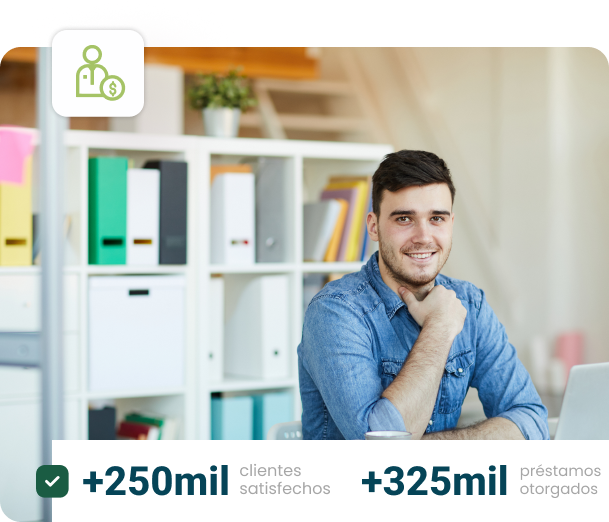
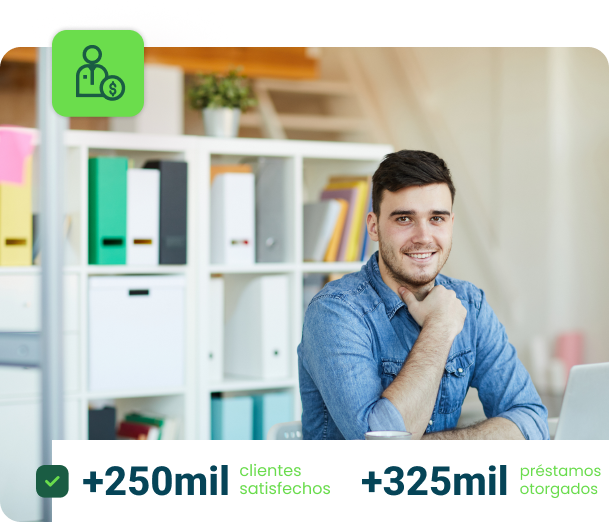
Seccion ayuda

diff --git a/src/app/client/shared/navbar/navbar.component.html b/src/app/client/shared/navbar/navbar.component.html
@@ -8,7 +8,7 @@
         <ul>
             <li *ngFor="let item of items" class="link-route">
                 <ng-container *ngIf="item.path !== 'servicios'; else serviciosLink">
-                    <a [routerLink]="[item.path]" routerLinkActive="selected" class="link-route__href">
+                    <a [routerLink]="[item.path]" (click)="toggleClass(item.path)" routerLinkActive="selected" class="link-route__href">
                         {{ item.text }}
                     </a>
                 </ng-container>
@@ -20,8 +20,8 @@
                         <div class="arrow-down"><mat-icon>expand_more</mat-icon></div>
                         <div class="submenu animate__animated animate__fadeIn animate__faster">
                             <ul>
-                                <li *ngFor="let servicio of servicios">
-                                    <a [routerLink]="'servicios/' + servicio.path" routerLinkActive="selected"
+                                <li *ngFor="let servicio of servicios" [routerLink]="'servicios/' + servicio.path">
+                                    <a  routerLinkActive="selected"
                                         class="link-route__href">
                                         {{ servicio.titulo }}
                                     </a>

diff --git a/src/app/client/pages/ayuda/ayuda.component.scss b/src/app/client/pages/ayuda/ayuda.component.scss
@@ -1,0 +1,45 @@
+.ayuda {
+    padding-top: 5.375rem;
+    padding-bottom: 5.375rem;
+
+    &__box {
+        margin-top: 3.75rem;
+        display: flex;
+        justify-content: center;
+        position: relative;
+
+        &__title {
+            margin-right: 4rem;
+        }
+
+        &__tab {
+            display: flex;
+            align-items: center;
+
+            ul {
+                display: flex;
+
+                .active {
+                    color: var(--verde-claro) !important;
+                    font-family: Roboto-Medium !important;
+
+                }
+
+                li {
+                    list-style: none;
+                    color: #636D79;
+                    font-family: Roboto-Regular !important;
+                    font-size: 1rem !important;
+                    line-height: 150% !important;
+                    letter-spacing: normal;
+                    cursor: pointer;
+                    transition: all .2s;
+
+                    &:not(:last-child) {
+                        margin-right: 2.5rem;
+                    }
+                }
+            }
+        }
+    }
+}

diff --git a/src/app/client/pages/ayuda/ayuda.component.html b/src/app/client/pages/ayuda/ayuda.component.html
@@ -1,1 +1,21 @@
-<p>ayuda works!</p>
+<div class="ayuda">
+    <div class="ayuda__tittle-little">
+        <p class="text-small-section">Ayuda y seguridad</p>
+    </div>
+    <div class="ayuda__box">
+        <div class="ayuda__box__title title-section">Preguntas Frecuentes</div>
+        <div class="ayuda__box__tab">
+            <ul>
+                <li [ngClass]="{'active': isSelected === 'generales'}" (click)="toggleClass('generales')">General</li>
+                <li [ngClass]="{'active': isSelected === 'payments'}" (click)="toggleClass('payments')">Payments</li>
+                <li [ngClass]="{'active': isSelected === 'services'}" (click)="toggleClass('services')">Services</li>
+                <li [ngClass]="{'active': isSelected === 'refund'}" (click)="toggleClass('refund')">Refund</li>
+                <li [ngClass]="{'active': isSelected === 'contact'}" (click)="toggleClass('contact')">Contact</li>
+            </ul>
+        </div>
+    </div>
+
+    <div class="ayuda__box__answers">
+        <question-section [questions]="questionsSelected"></question-section>
+    </div>
+</div>

diff --git a/src/app/client/components/components.module.ts b/src/app/client/components/components.module.ts
@@ -5,6 +5,8 @@ import { PrestamoBoxComponent } from './prestamo-box/prestamo-box.component';
 import { SharedGlobalModule } from 'src/app/shared/shared.module';
 import { TestimonioComponent } from './testimonio/testimonio.component';
 import { SlickCarouselModule } from 'ngx-slick-carousel';
+import { QuestionComponent } from './question/question.component';
+import { QuestionSectionComponent } from './question-section/question-section.component';
 
 
 
@@ -12,7 +14,9 @@ import { SlickCarouselModule } from 'ngx-slick-carousel';
   declarations: [
     NuestrosServiciosComponent,
     PrestamoBoxComponent,
-    TestimonioComponent
+    TestimonioComponent,
+    QuestionComponent,
+    QuestionSectionComponent
   ],
   imports: [
     CommonModule,
@@ -22,7 +26,9 @@ import { SlickCarouselModule } from 'ngx-slick-carousel';
   exports: [
     NuestrosServiciosComponent,
     PrestamoBoxComponent,
-    TestimonioComponent
+    TestimonioComponent,
+    QuestionComponent,
+    QuestionSectionComponent
   ]
 })
 export class ComponentsModule { }

diff --git a/src/app/client/pages/ayuda/ayuda.component.ts b/src/app/client/pages/ayuda/ayuda.component.ts
@@ -1,9 +1,34 @@
-import { Component } from '@angular/core';
+import { Component, OnInit } from '@angular/core';
+import { QuestionsService } from '../../services/questions.service';
+
 
 @Component({
   templateUrl: './ayuda.component.html',
   styleUrls: ['./ayuda.component.scss']
 })
-export class AyudaComponent {
+
+
+export class AyudaComponent implements OnInit {
+  questions!: any[];
+  isSelected: string = 'generales';
+  questionsSelected: any = [];
+
+  constructor(private questionService: QuestionsService) { }
+
+  ngOnInit(): void {
+    this.questionService.getQuestions()
+      .subscribe(questions => {
+        this.questions = questions
+      })
+  }
+
+  toggleClass(tipo: string): void {
+    if (this.isSelected !== tipo) {
+      this.isSelected = tipo;
+      console.log(this.questions)
+      const questions = this.questions.find(question => question.tipo === tipo)
+      this.questionsSelected = questions.data
+    }
+  }
 
 }

diff --git a/src/app/client/pages/nosotros/nosotros.component.scss b/src/app/client/pages/nosotros/nosotros.component.scss
@@ -43,17 +43,18 @@ p {
                 margin-top: 2.5rem;
                 cursor: pointer;
                 border-radius: .5rem;
-                border: 1px solid  rgba(145, 158, 171, 0.32);
+                border: 1px solid  var(--verde-claro);
                 width: fit-content;
                 display: flex;
                 justify-content: center;
                 align-items: center;
                 padding: 0.6875rem 1.375rem;
-                color: #212B36;
+                color: var(--verde-oscuro);
                 font-family: Public-Bold;
                 font-size: 1rem;
                 font-style: normal;
                 line-height: 1.625rem;
+                background-color: transparent;
 
                 img {
                     width: 1.5rem;
@@ -63,4 +64,8 @@ p {
             }
         }
     }
+}
+
+.resto-palabra {
+    color: var(--verde-claro)!important;
 }

diff --git a/src/app/client/components/question-section/question-section.component.scss b/src/app/client/components/question-section/question-section.component.scss
@@ -1,0 +1,21 @@
+.question {
+    display: flex;
+    justify-content: space-between; /* Para separar los elementos igualmente */
+    width: 100%; /* Asegura que el contenedor ocupe el 100% del ancho disponible */
+    
+    &__section {
+        display: flex;
+        flex-wrap: wrap; /* Para que los elementos se envuelvan a la siguiente fila cuando no quepan */
+        justify-content: space-between; /* Para separar los elementos igualmente */
+        width: 100%; 
+    }
+
+    &-item {
+        flex: calc(50% - 10px); /* Cada elemento question-item ocupará el 50% del ancho disponible con espaciado */
+        margin: 5px; /* Espacio entre elementos */
+        box-sizing: border-box; /* Para incluir el margen en el ancho total */
+        padding: 10px; /* Agrega espaciado si es necesario */
+    }
+}
+
+

diff --git a/src/app/client/components/testimonio/testimonio.component.scss b/src/app/client/components/testimonio/testimonio.component.scss
@@ -21,7 +21,7 @@ p {
         margin-top: 1.5rem;
 
         p {
-            color: #1F2744;
+            color: var(--verde-claro);
             font-family: Poppins-SemiBold;
             font-size: 1.125rem;
             font-style: normal;
@@ -35,7 +35,7 @@ p {
         margin-top: 1rem;
 
         p {
-            color: #1F2744;
+            color: var(--verde-oscuro);
             font-family: Poppins-Regular;
             font-size: 1rem;
             font-style: normal;
@@ -64,7 +64,7 @@ p {
             flex-direction: column;
 
             .person-name {
-                color: #0B2E29;
+                color: var(--verde-oscuro);
                 font-family: Nunito-SemiBold;
                 font-size: 1rem;
                 font-style: normal;

diff --git a/src/styles.scss b/src/styles.scss
@@ -195,7 +195,7 @@ body {
 }
 
 .title-section {
-  color: #212B36;
+  color: var(--verde-oscuro)!important;
   font-family: Roboto-Black;
   font-size: 3rem;
   font-style: normal;
@@ -203,8 +203,17 @@ body {
   letter-spacing: -0.6px;
 }
 
+.title-section span {
+  color: var(--verde-oscuro)!important;
+  font-family: Roboto-Black!important;
+  font-size: 3rem;
+  font-style: normal;
+  line-height: 4rem;
+  letter-spacing: -0.6px;
+}
+
 .text-big-section {
-  color: #212B36;
+  color: var(--verde-oscuro);
   font-family: Public-Black;
   font-size: 3rem;
   font-style: normal;
@@ -212,7 +221,7 @@ body {
 }
 
 .text-section {
-  color: #637381;
+  color: var(--verde-oscuro);
   text-align: justify;
   font-family: Public-Regular;
   font-size: 1rem;

diff --git a/src/app/client/pages/servicios/servicios.component.scss b/src/app/client/pages/servicios/servicios.component.scss
@@ -14,7 +14,7 @@ p {
             display: flex;
             flex-direction: column;
             &--title {
-                max-width: 23.5rem;
+                max-width: 28.5rem;
                 margin-top: 2.5rem;
             }
     
@@ -49,7 +49,7 @@ p {
             }
             
             .button-servicios {
-                color: #FFF;
+                color: var(--verde-claro);
                 text-align: center;
                 font-family: Roboto-Medium;
                 font-size: 0.875rem;
@@ -82,7 +82,8 @@ p {
         letter-spacing: 0.5px;
     }
     .resto-palabra {
-        color: #A5C367!important;
+        color: var(--verde-claro)!important;
+        text-transform: capitalize;
     }
 }
 

diff --git a/src/app/shared/material/material.module.ts b/src/app/shared/material/material.module.ts
@@ -4,6 +4,10 @@ import { MatToolbarModule } from '@angular/material/toolbar';
 import { MatIconModule } from '@angular/material/icon';
 import { MatListModule } from '@angular/material/list';
 import { MatButtonModule } from '@angular/material/button';
+import { MatTabsModule } from '@angular/material/tabs';
+import { MatExpansionModule } from '@angular/material/expansion';
+
+
 
 
 @NgModule({
@@ -13,7 +17,9 @@ import { MatButtonModule } from '@angular/material/button';
     MatIconModule,
     MatListModule,
     MatListModule,
-    MatButtonModule
+    MatButtonModule,
+    MatTabsModule,
+    MatExpansionModule
   ]
 })
 export class MaterialModule { }

diff --git a/src/app/client/pages/nosotros/nosotros.component.html b/src/app/client/pages/nosotros/nosotros.component.html
@@ -16,7 +16,10 @@
             </video>
         </div>
         <div class="nosotros__box-content__text">
-            <p class="title-section">{{ titulo }}</p>
+            <p class="title-section">
+                <span class="primera-palabra">{{ titulo.split(' ')[0] + ' ' + titulo.split(' ')[1] + ' ' + titulo.split(' ')[2] }}</span>
+                <span class="resto-palabra"> {{ titulo.split(' ').slice(3).join(' ') }}</span>
+            </p>
             <p class="text-section">{{ texto }}</p>
             <button class="btn-nosotros">Conocé más sobre nosotros <img src="./assets/imgs/nosotros/follow-icon.png" alt=""></button>
         </div>
